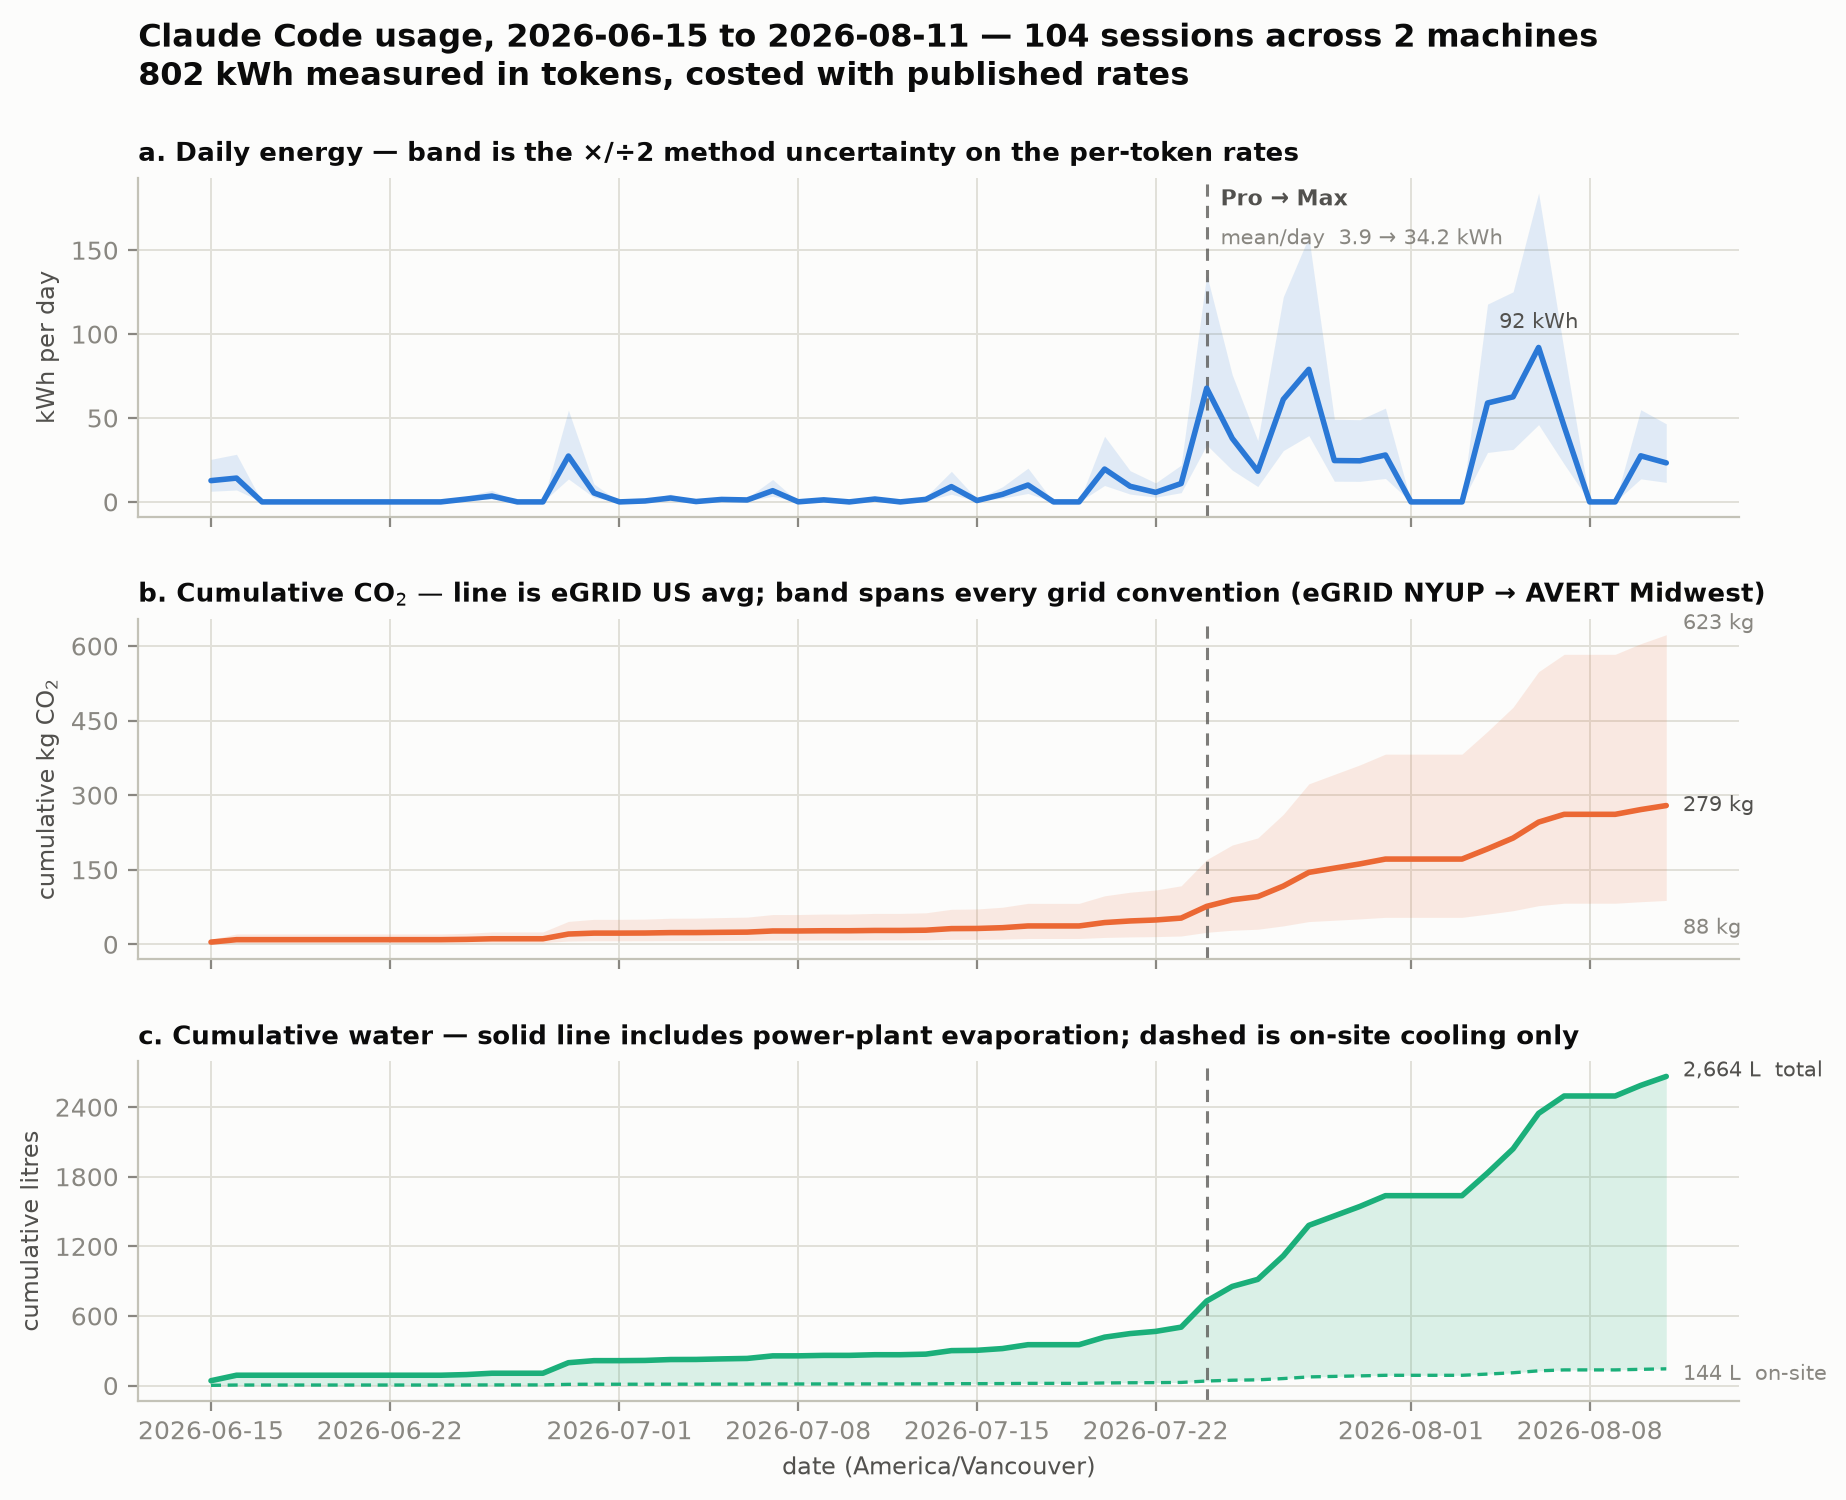
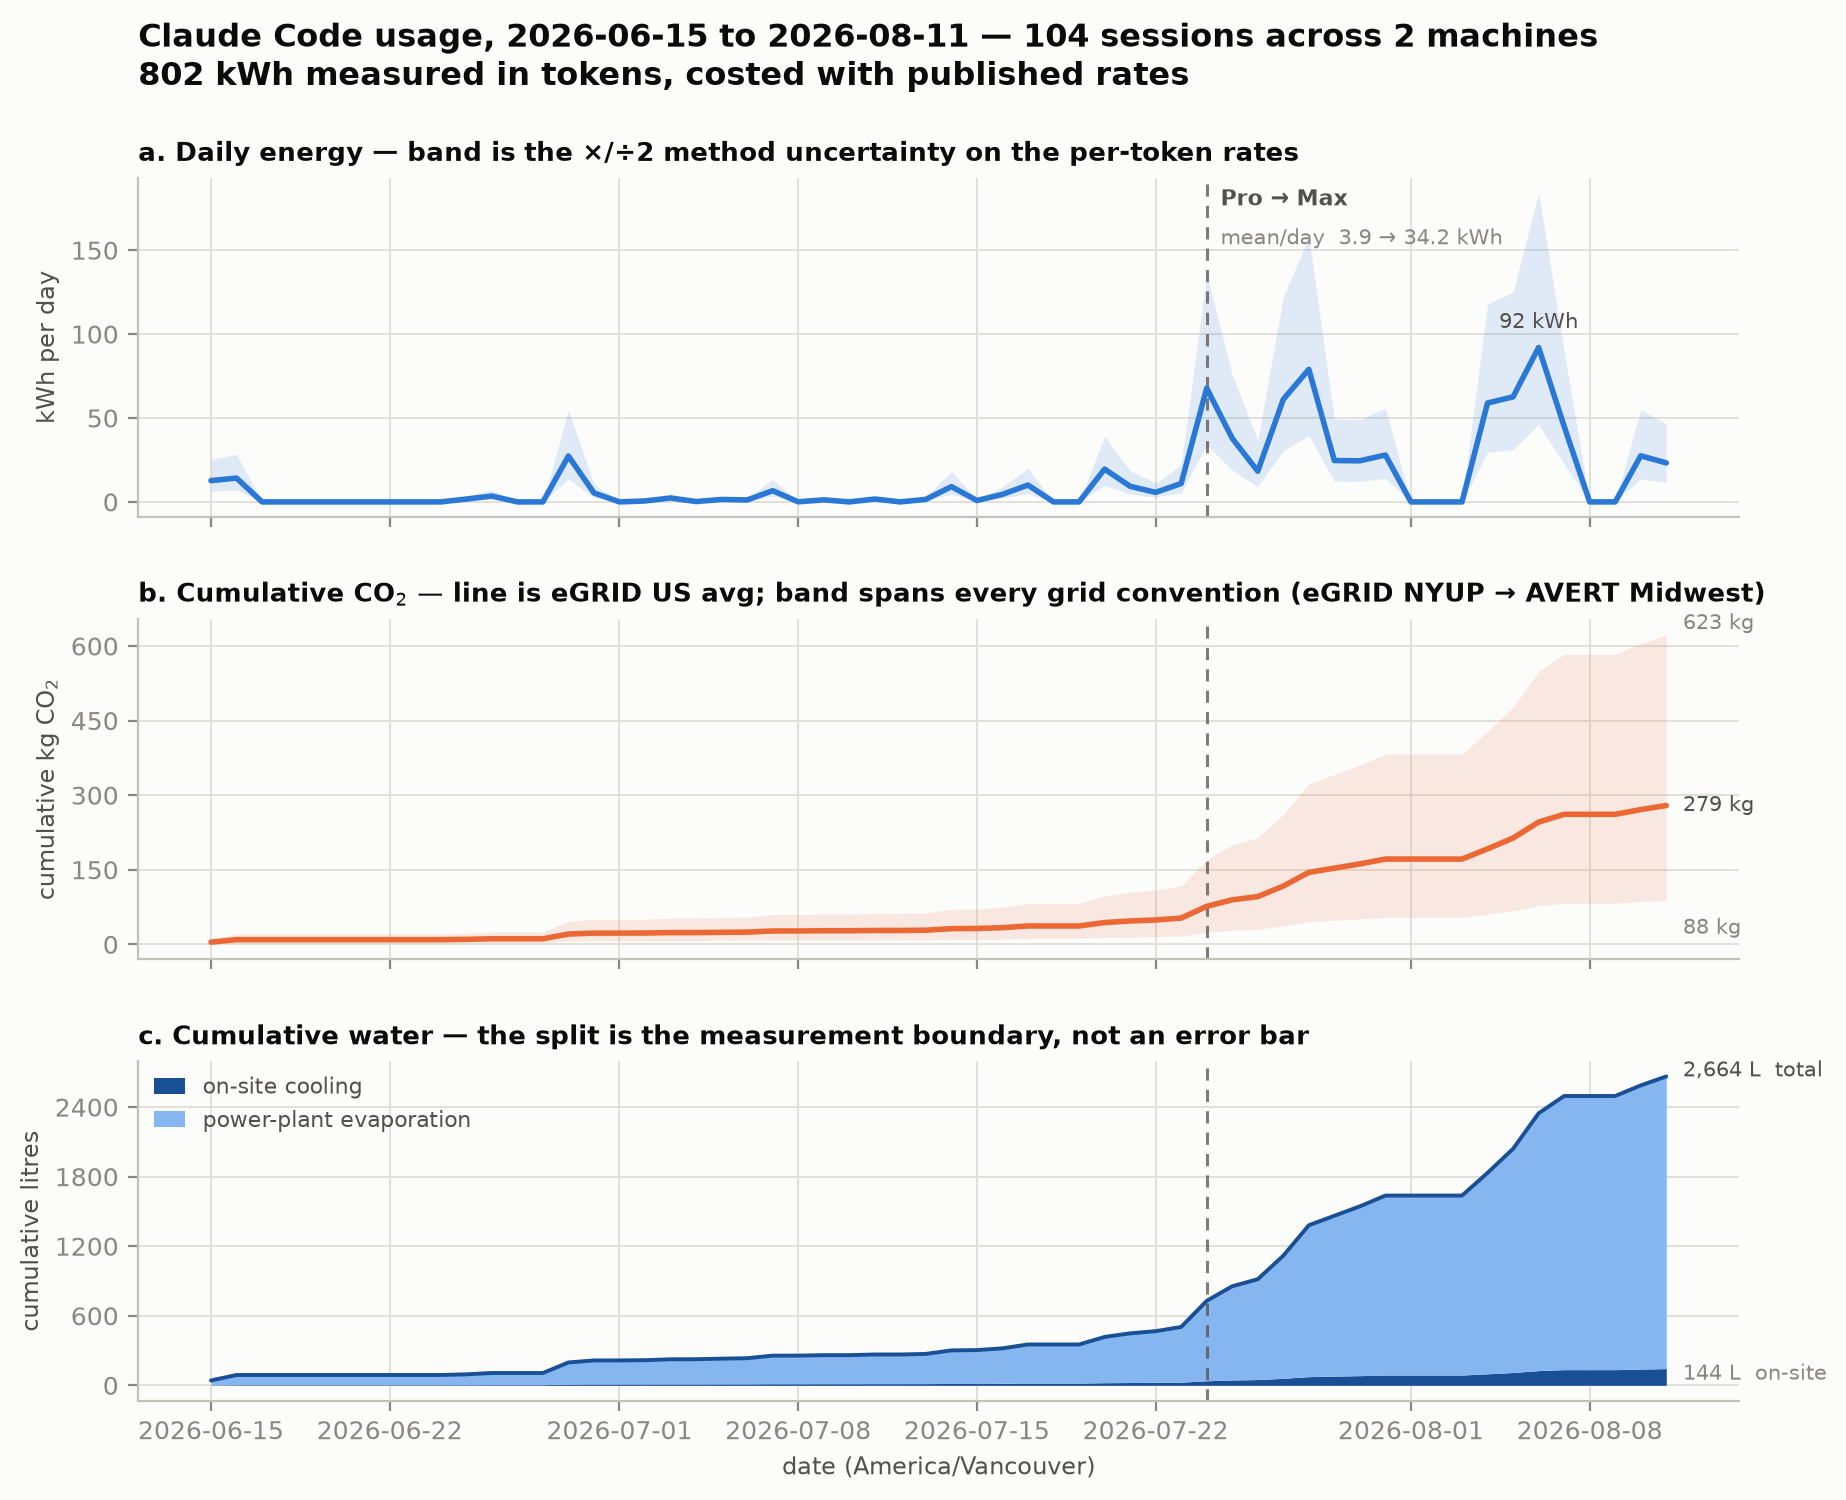
Water panel: stack the two boundaries in one blue ramp
On-site cooling and power-plant evaporation are two parts of one quantity,
not two categories, so they take two steps of a single sequential blue ramp
rather than a solid/dashed pair in a third hue. Steps 600 (#184f95) and 250
(#86b6ef), validated with --ordinal: lightness monotone, adjacent gap clears
0.06, light end at 2.06:1 against the surface. Two series means a legend is
mandatory, so one is present alongside the direct endpoint labels.

This also drops the aqua that had warned at 2.74:1 contrast, so the figure
no longer depends on labels as contrast relief.

All figures regenerated and both PDFs rebuilt. Removes the superseded
two-panel fig_usage_alltime.png, which nothing referenced.

Changed region(s): [[0.1235, 0.6747, 0.9263, 0.9507], [0.0618, 0.7053, 0.247, 0.7667]]

diff --git a/measure_usage.py b/measure_usage.py
@@ -319,7 +319,7 @@ if a.plot and hourly:
     lo_name = min(GRIDS, key=GRIDS.get).replace("_", " ")
     hi_name = max(GRIDS, key=GRIDS.get).replace("_", " ")
 
-    AQUA = "#1baf7a"
+    BLUE_D, BLUE_L = "#184f95", "#86b6ef"   # blue ramp steps 600 / 250
     fig, (ax1, ax2, ax3) = plt.subplots(3, 1, figsize=(9.2, 8.8), sharex=True)
     fig.subplots_adjust(left=0.085, right=0.955, top=0.895, bottom=0.07, hspace=0.30)
 
@@ -349,21 +349,24 @@ if a.plot and hourly:
                      color=INK2 if val == g else MUTED, va="center")
     ax2.yaxis.set_major_locator(MaxNLocator(5))
 
-    # (c) cumulative water. The band is not an error bar -- it is the BOUNDARY choice, on-site
-    # cooling water versus water evaporated at the power plants too. That gap is the whole of the
-    # public water controversy, so it is drawn rather than argued.
-    ax3.fill_between(days, [c*WUE_ON for c in cum], [c*(WUE_ON+WUE_OFF) for c in cum],
-                     color=AQUA, alpha=0.15, lw=0)
-    ax3.plot(days, [c*(WUE_ON+WUE_OFF) for c in cum], color=AQUA, lw=2, solid_capstyle="round")
-    ax3.plot(days, [c*WUE_ON for c in cum], color=AQUA, lw=1.2, ls=(0, (3, 2)))
+    # (c) cumulative water, stacked. On-site cooling and power-plant evaporation are two parts of
+    # one quantity, not two categories, so they take two steps of a single sequential blue ramp
+    # (steps 600 and 250; validated with --ordinal: monotone L, visible gap, light end 2.06:1).
+    # The split IS the finding -- it is the boundary that makes published water figures disagree.
+    on = [c*WUE_ON for c in cum]
+    tot = [c*(WUE_ON+WUE_OFF) for c in cum]
+    ax3.fill_between(days, 0, on, color=BLUE_D, lw=0, label="on-site cooling")
+    ax3.fill_between(days, on, tot, color=BLUE_L, lw=0, label="power-plant evaporation")
+    ax3.plot(days, tot, color=BLUE_D, lw=1.4, solid_capstyle="round")
     ax3.set_ylabel("cumulative litres", fontsize=8.5)
-    ax3.set_title("c. Cumulative water — solid line includes power-plant evaporation; "
-                  "dashed is on-site cooling only", loc="left", fontweight="bold", fontsize=9.5)
-    # Direct labels are mandatory relief here: aqua sits at 2.74:1 against the surface.
-    ax3.annotate(f"{cum[-1]*(WUE_ON+WUE_OFF):,.0f} L  total", (days[-1], cum[-1]*(WUE_ON+WUE_OFF)),
-                 textcoords="offset points", xytext=(6, 2), fontsize=7.5, color=INK2, va="center")
-    ax3.annotate(f"{cum[-1]*WUE_ON:,.0f} L  on-site", (days[-1], cum[-1]*WUE_ON),
-                 textcoords="offset points", xytext=(6, -2), fontsize=7.5, color=MUTED, va="center")
+    ax3.set_title("c. Cumulative water — the split is the measurement boundary, not an error bar",
+                  loc="left", fontweight="bold", fontsize=9.5)
+    ax3.legend(loc="upper left", frameon=False, fontsize=8, handlelength=1.4,
+               labelcolor=INK2, borderpad=0.2)
+    ax3.annotate(f"{tot[-1]:,.0f} L  total", (days[-1], tot[-1]), textcoords="offset points",
+                 xytext=(6, 2), fontsize=7.5, color=INK2, va="center")
+    ax3.annotate(f"{on[-1]:,.0f} L  on-site", (days[-1], on[-1]), textcoords="offset points",
+                 xytext=(6, -2), fontsize=7.5, color=MUTED, va="center")
     ax3.yaxis.set_major_locator(MaxNLocator(5))
 
     for spec in a.event:

diff --git a/researcher_brief.md b/researcher_brief.md
@@ -191,7 +191,7 @@ Table: Measured token and energy mix — 104 sessions across two machines (a lap
 | Output | 56.8 M | 0.4% | 110.7 kWh | 13.8% |
 | **Total** | **14,116.5 M** | | **800.3 kWh** | |
 
-![One user's measured Claude Code usage, all time. Panel (a) daily energy, band = the ×/÷2 low end of the 2–4× method uncertainty on the per-token rates. Panel (b) cumulative CO~2~, line at the US-average grid, band spanning every accounting convention in Section 4 (eGRID NYUP to AVERT Midwest). Panel (c) cumulative water, where the band is not an error bar but the *boundary choice* — on-site cooling versus power-plant evaporation included. Token counts are measured; everything else is derived. Unlike every other figure in this project, a reader cannot reproduce this one: it needs the author's own transcripts.](figures/fig_s2_usage_alltime.png)
+![One user's measured Claude Code usage, all time. Panel (a) daily energy, band = the ×/÷2 low end of the 2–4× method uncertainty on the per-token rates. Panel (b) cumulative CO~2~, line at the US-average grid, band spanning every accounting convention in Section 4 (eGRID NYUP to AVERT Midwest). Panel (c) cumulative water, stacked into its two components in one blue ramp: on-site cooling (dark) and power-plant evaporation (light). That split is a measurement boundary, not an error bar, and it is what makes published water figures disagree by orders of magnitude. Token counts are measured; everything else is derived. Unlike every other figure in this project, a reader cannot reproduce this one: it needs the author's own transcripts.](figures/fig_s2_usage_alltime.png)
 
 Five findings, in descending order of consequence for this brief.
 
